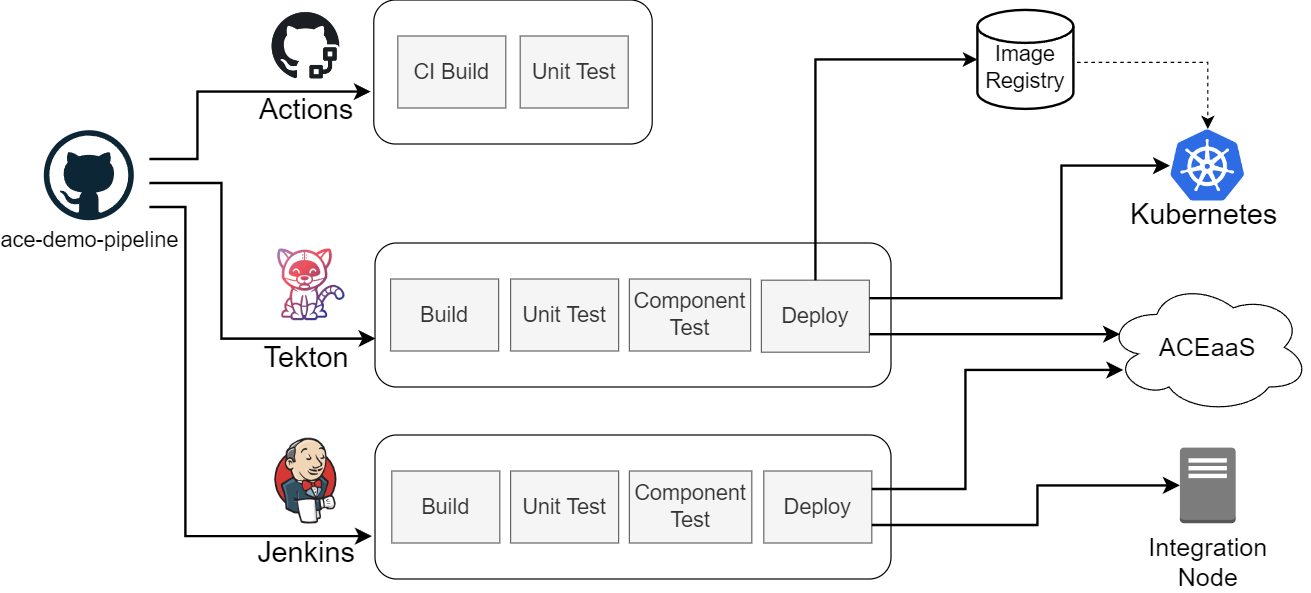
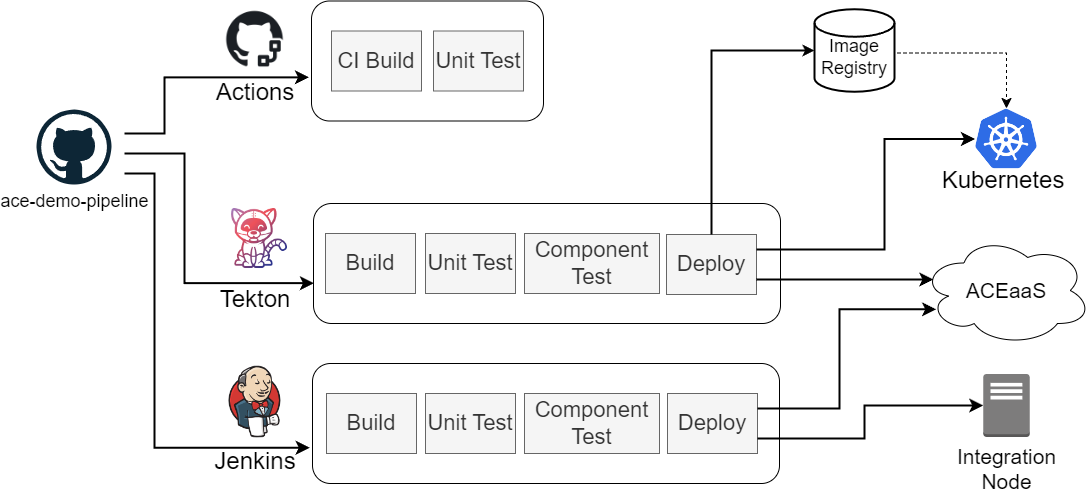
Try JPEG

diff --git a/README.md b/README.md
@@ -5,7 +5,7 @@ tools. The main focus is on how to use existing ACE capabilities in a pipeline, 
 being constructed to show pipeline-friendliness rather than being a "best practice" application.
 
 
-![Pipeline overview](/demo-infrastructure/images/pipelines-overview.png)
+![Pipeline overview](/demo-infrastructure/images/pipelines-overview.jpg)
 
 ## Constituent parts
 
